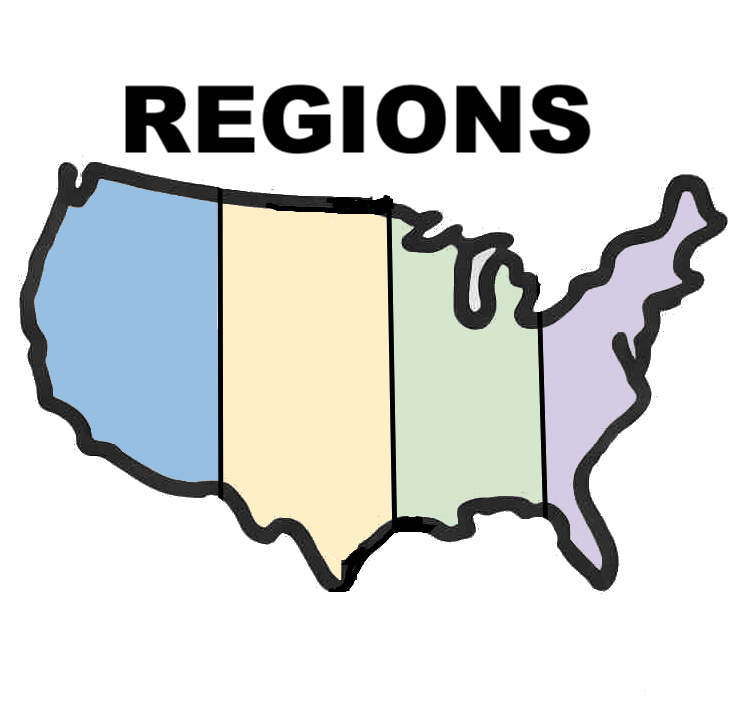
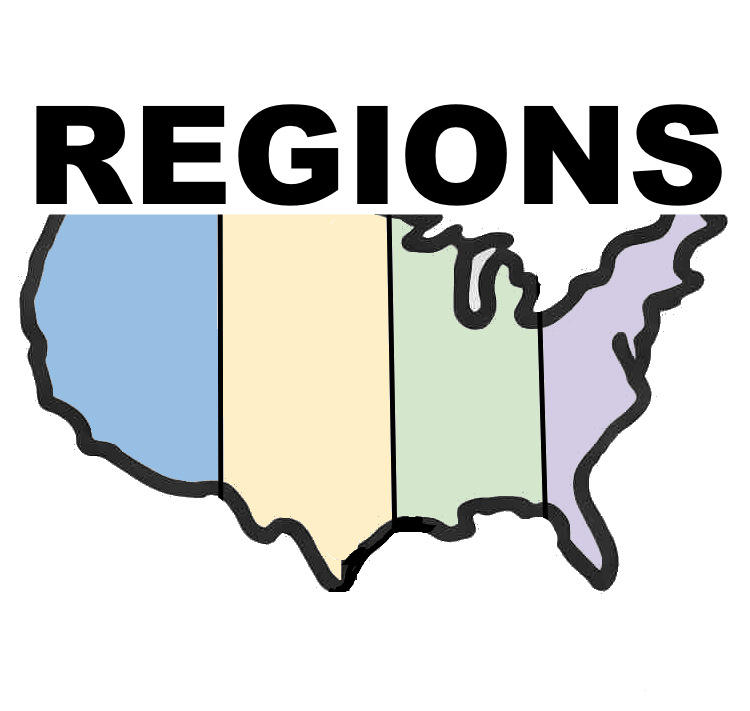
RegionsICon and SideBar and SiteBar set.

Changed region(s): [[0.0307, 0.0928, 0.9813, 0.3094]]

diff --git a/src/app/components/UI/SiteMenuBar.js b/src/app/components/UI/SiteMenuBar.js
@@ -1,14 +1,16 @@
 // SiteMenuBar.js
-import React, { useState, useEffect } from 'react';
+import React, { useState, useEffect, useContext } from 'react';
 import PropTypes from 'prop-types';
-import { Box, IconButton, Avatar, Tooltip } from '@mui/material';
+import { Box, IconButton, Avatar, Tooltip, Typography, Fade } from '@mui/material';
 import MenuIcon from '@mui/icons-material/Menu';
 import AccountCircleIcon from '@mui/icons-material/AccountCircle';
+import ArrowBackIcon from '@mui/icons-material/ArrowBack';
 import { useSiteMenuBar } from '@/hooks/useSiteMenuBar';
 import PostFilter from '@/components/UI/PostFilter';
 import FAQModal from '@/components/Modals/FAQModal';
 import SidebarDrawer from '@/components/UI/SidebarDrawer';
 import SiteMenuBarUserDrawer from './SiteMenuBarUserDrawer';
+import { RegionsContext } from '@/contexts/RegionsContext';
 
 const SiteMenuBar = ({
   activeCategories,
@@ -29,6 +31,10 @@ const SiteMenuBar = ({
   const [sidebarDrawerOpen, setSidebarDrawerOpen] = useState(false);
   const [userDrawerOpen, setUserDrawerOpen] = useState(false);
   const [showTooltip, setShowTooltip] = useState(false);
+  const [pulseRegionText, setPulseRegionText] = useState(false);
+
+  // Access selectedRegion from RegionsContext
+  const { selectedRegion } = useContext(RegionsContext);
 
   // Tooltip toggle for arrow effect if user is not logged in
   useEffect(() => {
@@ -37,6 +43,14 @@ const SiteMenuBar = ({
       return () => clearInterval(interval);
     }
   }, [user]);
+
+  // Toggle pulse effect for "Select Region" when no region is selected
+  useEffect(() => {
+    if (!selectedRegion) {
+      const interval = setInterval(() => setPulseRegionText((prev) => !prev), 1000);
+      return () => clearInterval(interval);
+    }
+  }, [selectedRegion]);
 
   const renderUserIcon = () =>
     user && (user.photoURL || user.displayName) ? (
@@ -50,16 +64,9 @@ const SiteMenuBar = ({
     );
 
   return (
-    <Box
-      sx={{
-        width: '100%',
-        padding: '0 0',
-        display: 'flex',
-        alignItems: 'center',
-        justifyContent: 'space-between',
-      }}
-    >
-      {/* Left Icons */}
+    <Box sx={{ width: '100%', padding: '0 0', display: 'flex', alignItems: 'center', justifyContent: 'space-between' }}>
+      
+      {/* Left Icons and Region Context */}
       <Box sx={{ display: 'flex', alignItems: 'center' }}>
         <IconButton
           edge="start"
@@ -69,6 +76,22 @@ const SiteMenuBar = ({
         >
           <MenuIcon />
         </IconButton>
+
+        {/* Region Context Display */}
+        {selectedRegion ? (
+          <Typography variant="body1" sx={{ ml: 2, fontWeight: 'bold' }}>
+            {selectedRegion}
+          </Typography>
+        ) : (
+          <Fade in={pulseRegionText} timeout={800}>
+            <Box sx={{ display: 'flex', alignItems: 'center', ml: 1 }}>
+              <ArrowBackIcon sx={{ fontSize: 20, mr: 0.5 }} />
+              <Typography variant="body2" color="textSecondary">
+                Select Region
+              </Typography>
+            </Box>
+          </Fade>
+        )}
       </Box>
 
       {/* Centered PostFilter */}

diff --git a/src/app/components/UI/SidebarDrawer.js b/src/app/components/UI/SidebarDrawer.js
@@ -49,7 +49,7 @@ const SidebarDrawer = ({ open, onClose }) => {
     ) : (
       <Avatar
         alt="Select Region"
-        src="/images/USARegions.png"
+        src="/images/Regions/RegionsIcon.png"
         sx={{ width: 32, height: 32 }}
       />
     );
